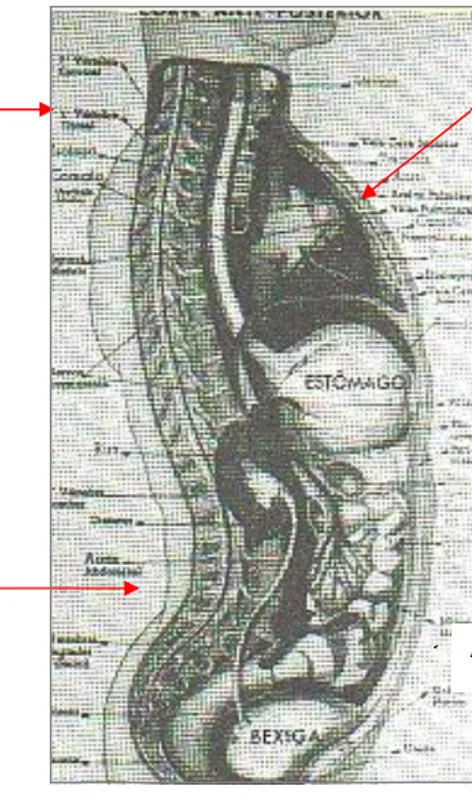
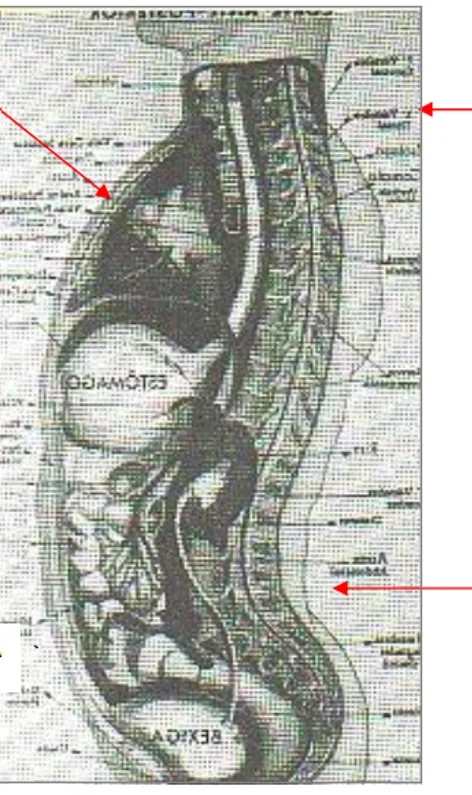
Flip spine plates to match bodies; add sitting research summary and pelvis captions

diff --git a/site/index.html b/site/index.html
@@ -88,15 +88,15 @@
           <h3>La colonne vue de profil</h3>
           <div class="compare compare-tall">
             <figure>
-              <img src="img/colonne-1934.webp" width="472" height="795" loading="lazy" alt="Coupe anatomique ancienne du tronc, de profil, avec la colonne vertébrale à gauche, l'estomac et la vessie à droite ; deux flèches rouges désignent le dos et le bas du dos.">
+              <img src="img/colonne-1934.webp" width="472" height="795" loading="lazy" alt="Coupe anatomique ancienne du tronc, de profil, avec la colonne vertébrale à droite, l'estomac et la vessie à gauche ; deux flèches rouges désignent le dos et le bas du dos.">
               <figcaption><strong>1934.</strong> Coupe tirée de <a href="#ref-pauchet"><cite>L'Anatomie en poche</cite></a> (V. Pauchet et S. Dupret).</figcaption>
             </figure>
             <figure>
-              <img src="img/colonne-moderne.webp" width="195" height="950" loading="lazy" alt="Planche d'anatomie moderne : colonne vertébrale humaine vue de profil, du rachis cervical au sacrum, le dos orienté vers la gauche.">
+              <img src="img/colonne-moderne.webp" width="195" height="950" loading="lazy" alt="Planche d'anatomie moderne : colonne vertébrale humaine vue de profil, du rachis cervical au sacrum, le dos orienté vers la droite.">
               <figcaption><strong>Aujourd'hui.</strong> Planche d'anatomie moderne (<a href="https://www.chirurgie-rachidienne.com/anatomie-2/">chirurgie-rachidienne.com</a>).</figcaption>
             </figure>
           </div>
-          <p class="src">La planche moderne est retournée horizontalement, sans ses légendes, pour être orientée comme celle de 1934. Ces images sont des représentations, pas des mesures : elles servent à comparer visuellement.</p>
+          <p class="src">La planche de 1934 est retournée horizontalement (son texte apparaît donc inversé) et la planche moderne est présentée sans ses légendes, pour que les deux colonnes soient orientées comme les corps ci-dessus, dos à droite. Ces images sont des représentations, pas des mesures : elles servent à comparer visuellement.</p>
 
           <h3>Un sommet de cambrure plus bas</h3>
           <!-- TODO: verify — contenu de la thèse non consultable en ligne ; la notice theses.fr ne mentionne pas ce point. Aucune source indépendante trouvée qui mesure le sommet de la lordose dans le passé. -->
@@ -127,13 +127,15 @@
           <div class="compare">
             <figure>
               <img src="img/vieille-assise.webp" width="566" height="900" loading="lazy" alt="Carte postale ancienne : une vieille femme en coiffe et châle, assise le dos droit sur un bloc de pierre, les mains posées sur les genoux.">
-              <figcaption><strong>Autrefois.</strong> Assise droite sans dossier. Carte postale ancienne « Vieille porteuse d'eau de Morlaix » (Artaud et Nozais, Nantes).</figcaption>
+              <figcaption><strong>Autrefois.</strong> Assise droite sans dossier, bassin droit. Carte postale ancienne « Vieille porteuse d'eau de Morlaix » (Artaud et Nozais, Nantes).</figcaption>
             </figure>
             <figure>
               <img src="img/homme-assis.webp" width="430" height="417" loading="lazy" alt="Photographie d'illustration : un jeune homme assis dans un canapé, penché vers un ordinateur portable posé devant lui.">
-              <figcaption><strong>Aujourd'hui.</strong> Assis sur un canapé, penché sur un écran (photographie d'illustration).</figcaption>
+              <figcaption><strong>Aujourd'hui.</strong> Assis sur un canapé, penché sur un écran, bassin basculé vers l'arrière (photographie d'illustration).</figcaption>
             </figure>
           </div>
+          <p><strong>Ce que dit la recherche sur l'assise.</strong> Assis, le corps ne se tient pas comme debout. Chez des adultes sans déformation de la colonne, la courbure lombaire passe d'environ 43° debout à 21° assis, et le bassin bascule vers l'arrière (inclinaison de 14° à 34°) (<a href="#ref-dharnipragada">Dharnipragada et al., 2024</a>, revue de 10 études). Cette posture, tenue des heures, va avec plus de lombalgies récidivantes : plus de 5&nbsp;heures assis par jour et les postures contraignantes prédisent la rechute (<a href="#ref-dasilva">da Silva et al., 2019</a>). Pendant la croissance, l'insuffisance de soutien des tissus mous pourrait en outre pousser les os du bas du dos à se déformer (<a href="#ref-nyu">communiqué de la NYU, 2022</a>).</p>
+          <p>L'assise moderne modifie donc la posture de la colonne dès qu'on s'assoit, et pourrait, sur une vie et sur des générations, contribuer à sa déformation. Ce second point reste une hypothèse : à notre connaissance, aucune étude ne compare directement l'assise d'autrefois et celle d'aujourd'hui, et les deux images ci-dessus sont des illustrations, pas des mesures.</p>
         </div>
       </details>
 
@@ -186,6 +188,7 @@
         <li id="ref-perez">Perez-Christiaens, N. (2008). <cite>Porter sur soi : se porter, porter, se comporter, transporter, se charger et se décharger sans dommage : contribution à l'étude d'une catégorie universelle de techniques : le transport des charges sur soi</cite>. Thèse d'anthropologie sociale et ethnologie, EHESS (dir. F. Sigaut). Non disponible en ligne. <a href="https://theses.fr/2008EHES0322">Notice theses.fr</a></li>
         <li id="ref-tacyildiz">Taçyıldız, A. E., Sofuoğlu, Ö. E., Apaydın, A. S., &amp; Üçer, M. (2026). Viewing low back pain through the lens of spinal evolution: understanding the morphology and limits of the human spine. <cite>PLOS ONE</cite>. <a href="https://doi.org/10.1371/journal.pone.0339032">doi:10.1371/journal.pone.0339032</a></li>
         <li id="ref-harrison">Harrison, D. E., Colloca, C. J., Oakley, P. A., Harrison, A., &amp; Moustafa, I. M. (2026). Vertebral body wedge geometry predicts lumbar lordosis beyond pelvic morphology in chronic low back pain. <cite>Journal of Clinical Medicine</cite>, 15, 6865. <a href="https://doi.org/10.3390/jcm15176865">doi:10.3390/jcm15176865</a></li>
+        <li id="ref-dharnipragada">Dharnipragada, R., et al. (2024). Sagittal balance in sitting and standing positions: a systematic review of radiographic measures. <cite>Heliyon</cite>, 10, e28545. <a href="https://doi.org/10.1016/j.heliyon.2024.e28545">doi:10.1016/j.heliyon.2024.e28545</a></li>
         <li id="ref-wallwork">Wallwork, T. L., et al. (2024). The clinical course of acute, subacute and persistent low back pain: a systematic review and meta-analysis. <cite>CMAJ</cite>, 196, E29-E46. <a href="https://doi.org/10.1503/cmaj.230542">doi:10.1503/cmaj.230542</a></li>
         <li id="ref-hayden">Hayden, J. A., et al. (2021). Exercise therapy for chronic low back pain. <cite>Cochrane Database of Systematic Reviews</cite>. <a href="https://doi.org/10.1002/14651858.cd009790.pub2">doi:10.1002/14651858.cd009790.pub2</a></li>
         <li id="ref-dasilva">da Silva, T., et al. (2019). Recurrence of low back pain is common: a prospective inception cohort study. <cite>Journal of Physiotherapy</cite>, 65, 159-165. <a href="https://doi.org/10.1016/j.jphys.2019.04.010">doi:10.1016/j.jphys.2019.04.010</a></li>
